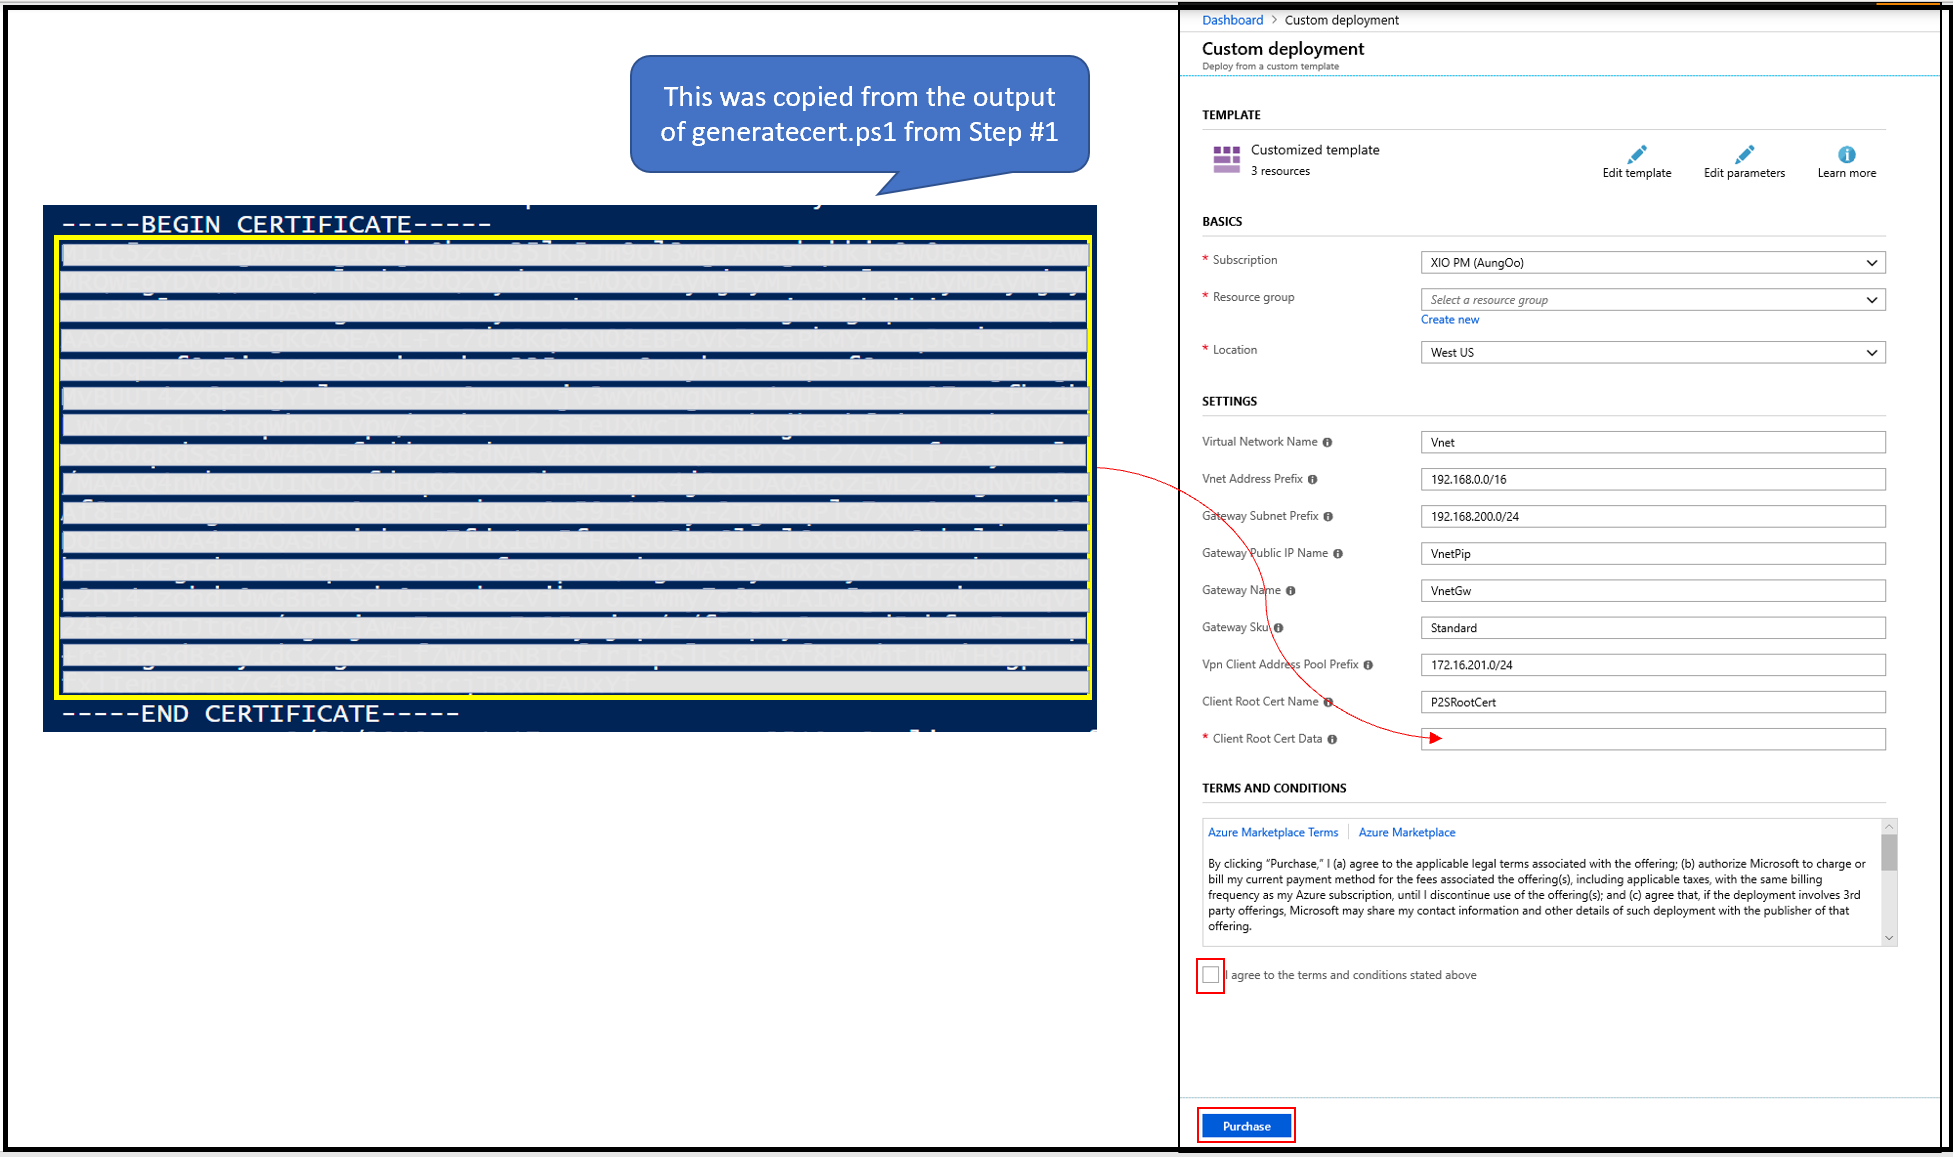
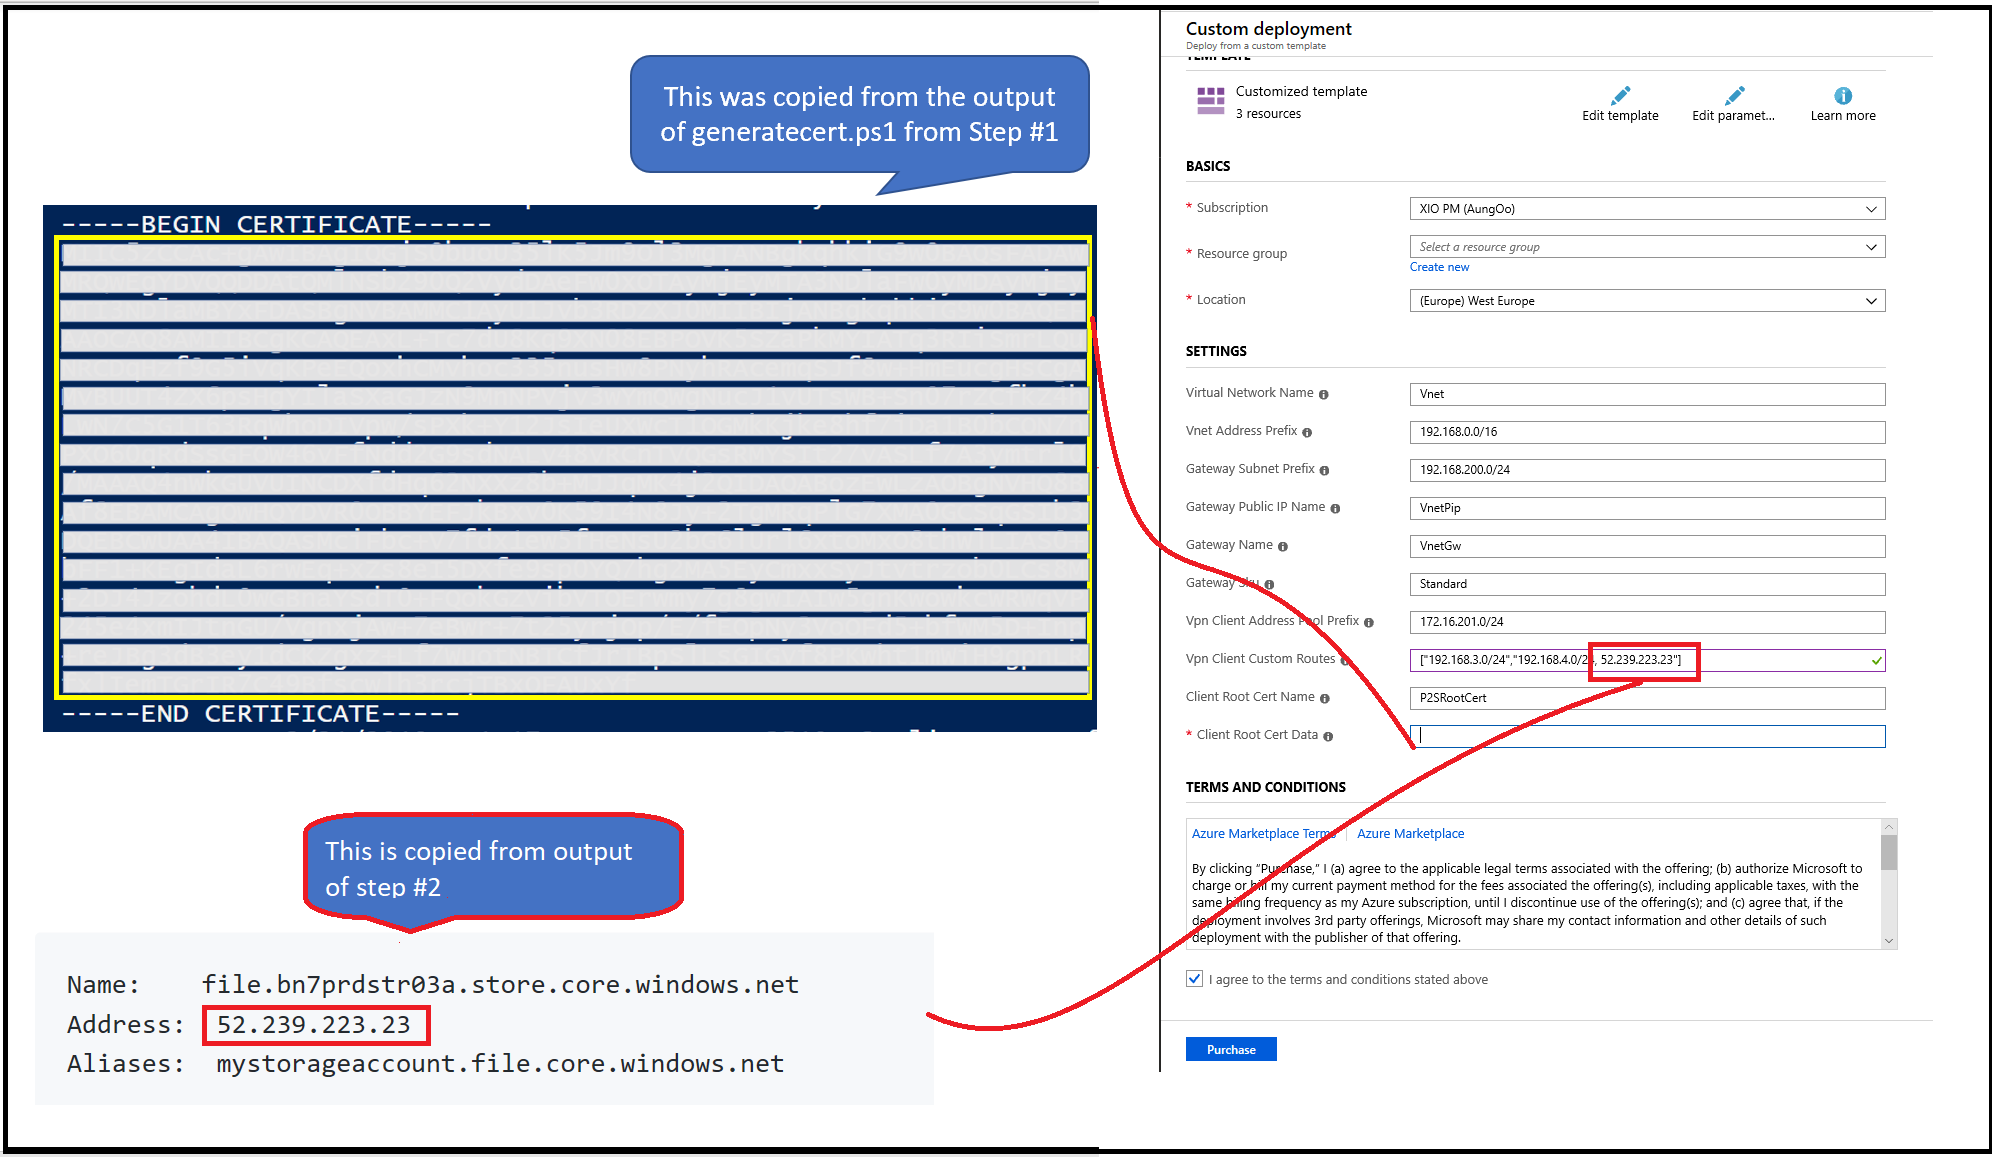
Update Diagram and step to add Storage account IP

diff --git a/point-to-site-vpn-azure-files/README.md b/point-to-site-vpn-azure-files/README.md
@@ -86,7 +86,8 @@ Aliases:  mystorageaccount.file.core.windows.net
 </a>
 
 * Click **Deploy To Azure** button above. It will take you to Azure Portal.
-* **Paste** the **Client Root Cert Data** copied from copied from previous step.
+* **Paste** the **Client Root Cert Data** copied from first step.
+* **Paste** the **Storage Account IP** in **VPN Cient Customer Routes** copied from  from step # 2.
 * Fill other necessary info and click **Purchase**.
 * This deployment takes ~30-45 minutes to complete.
 
